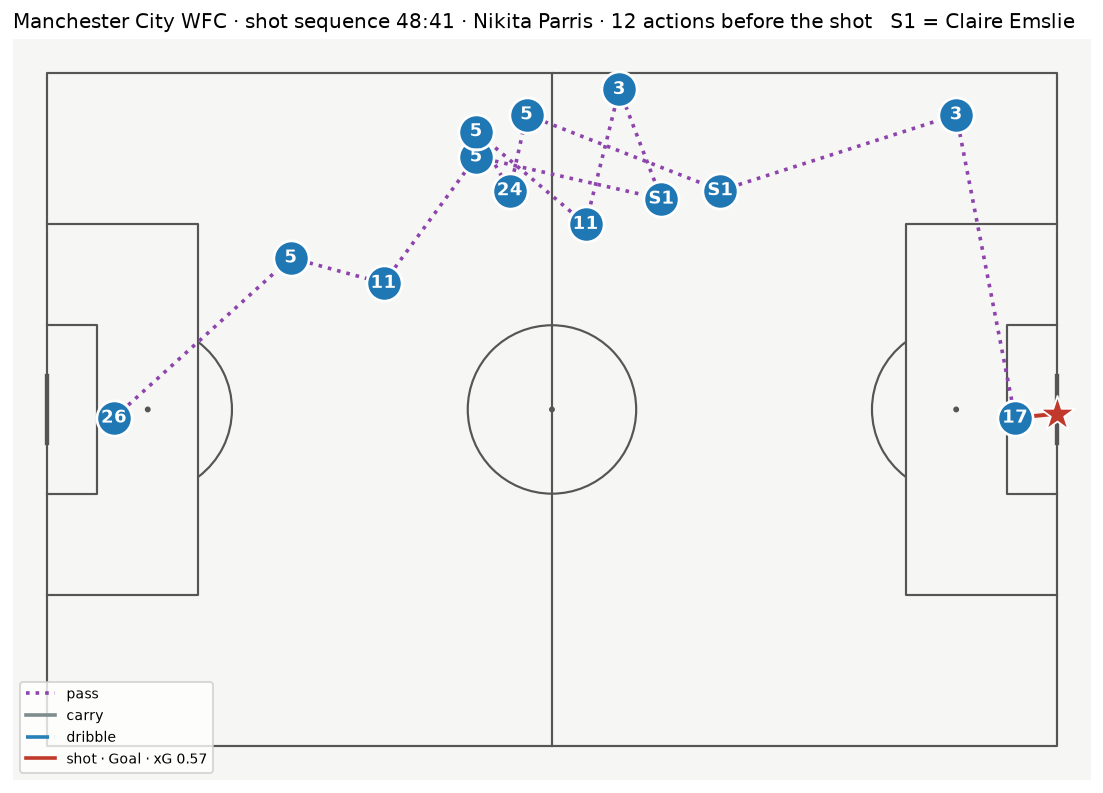
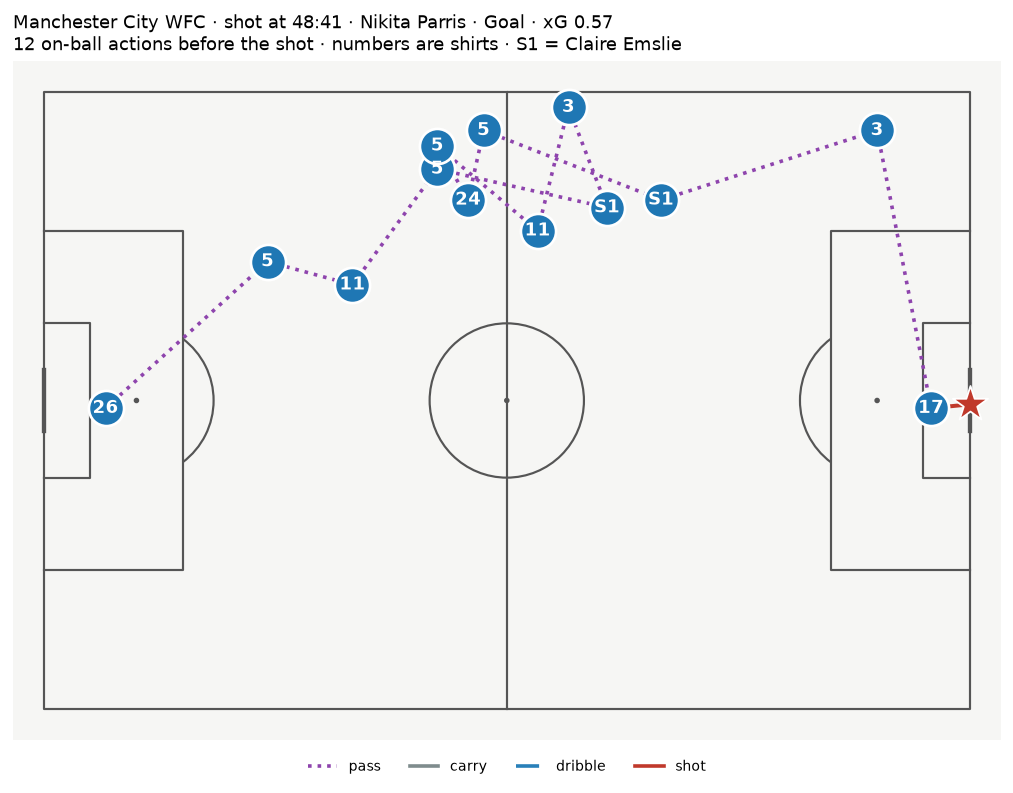
Tidy figures: legends below the pitch, shorter titles, fewer xG labels
Long titles with substitute notes were shrinking the shot-sequence figures;
the legend sat on top of the pitch; xG labels overlapped in the shot map.
Titles now wrap to two lines, the legend moves under the pitch, and only
goals and chances >= 0.25 xG are labelled.

diff --git a/src/footviz/plots.py b/src/footviz/plots.py
@@ -96,13 +96,14 @@ def shot_sequence(match: Match, seq: ShotSequence) -> Figure:
     handles = [plt.Line2D([], [], **styles["Pass"], lw=2, label="pass"),
                plt.Line2D([], [], **styles["Carry"], lw=2, label="carry"),
                plt.Line2D([], [], **styles["Dribble"], lw=2, label="dribble"),
-               plt.Line2D([], [], color="#c0392b", lw=2,
-                          label=f"shot · {seq.outcome} · xG {seq.xg:.2f}")]
-    ax.legend(handles=handles, loc="lower left", fontsize=8, frameon=True)
-    sub_note = ("   " + ", ".join(f"{v} = {k}" for k, v in subs.items())) if subs else ""
-    ax.set_title(f"{seq.team} · shot sequence {seq.minute:02d}:{seq.second:02d} · {seq.shooter}"
-                 f" · {len(seq.build_up)} actions before the shot{sub_note}",
-                 loc="left", fontsize=11)
+               plt.Line2D([], [], color="#c0392b", lw=2, label="shot")]
+    ax.legend(handles=handles, loc="upper center", bbox_to_anchor=(0.5, -0.01), ncol=4,
+              fontsize=8, frameon=False)
+    ax.set_title(f"{seq.team} · shot at {seq.minute:02d}:{seq.second:02d} · {seq.shooter} · "
+                 f"{seq.outcome} · xG {seq.xg:.2f}\n"
+                 f"{len(seq.build_up)} on-ball actions before the shot · numbers are shirts"
+                 + (" · " + ", ".join(f"{v} = {k}" for k, v in subs.items()) if subs else ""),
+                 loc="left", fontsize=10)
     return fig
 
 
@@ -150,10 +151,12 @@ def xg_shot_map(match: Match) -> Figure:
                           color=TEAM_COLOURS[i], alpha=0.55 if not goal else 0.95,
                           marker="o" if not goal else "*", edgecolors="black", linewidth=0.6,
                           zorder=3 + goal, label=None)
-        for xi, yi, v in zip(x, y, s.xg, strict=True):
-            if v >= 0.15:
-                ax.annotate(f"{v:.2f}", (xi, yi), ha="center", va="bottom", fontsize=7,
-                            xytext=(0, 7), textcoords="offset points", zorder=6)
+        for xi, yi, v, goal in zip(x, y, s.xg, s.goal, strict=True):
+            if v >= 0.25 or goal:  # label only the big chances and the goals
+                ax.annotate(f"{v:.2f}", (xi, yi), ha="left", va="center", fontsize=7.5,
+                            xytext=(9, 0), textcoords="offset points", zorder=6,
+                            bbox=dict(boxstyle="round,pad=0.15", fc="white", ec="none",
+                                      alpha=0.8))
     left = f"← {match.teams[0]}  {score[match.teams[0]]} ({xg[match.teams[0]]:.2f} xG)"
     right = f"{match.teams[1]}  {score[match.teams[1]]} ({xg[match.teams[1]]:.2f} xG) →"
     ax.set_title(f"{left}      {right}\nmarker area ∝ xG · ★ = goal · each team shoots towards "
